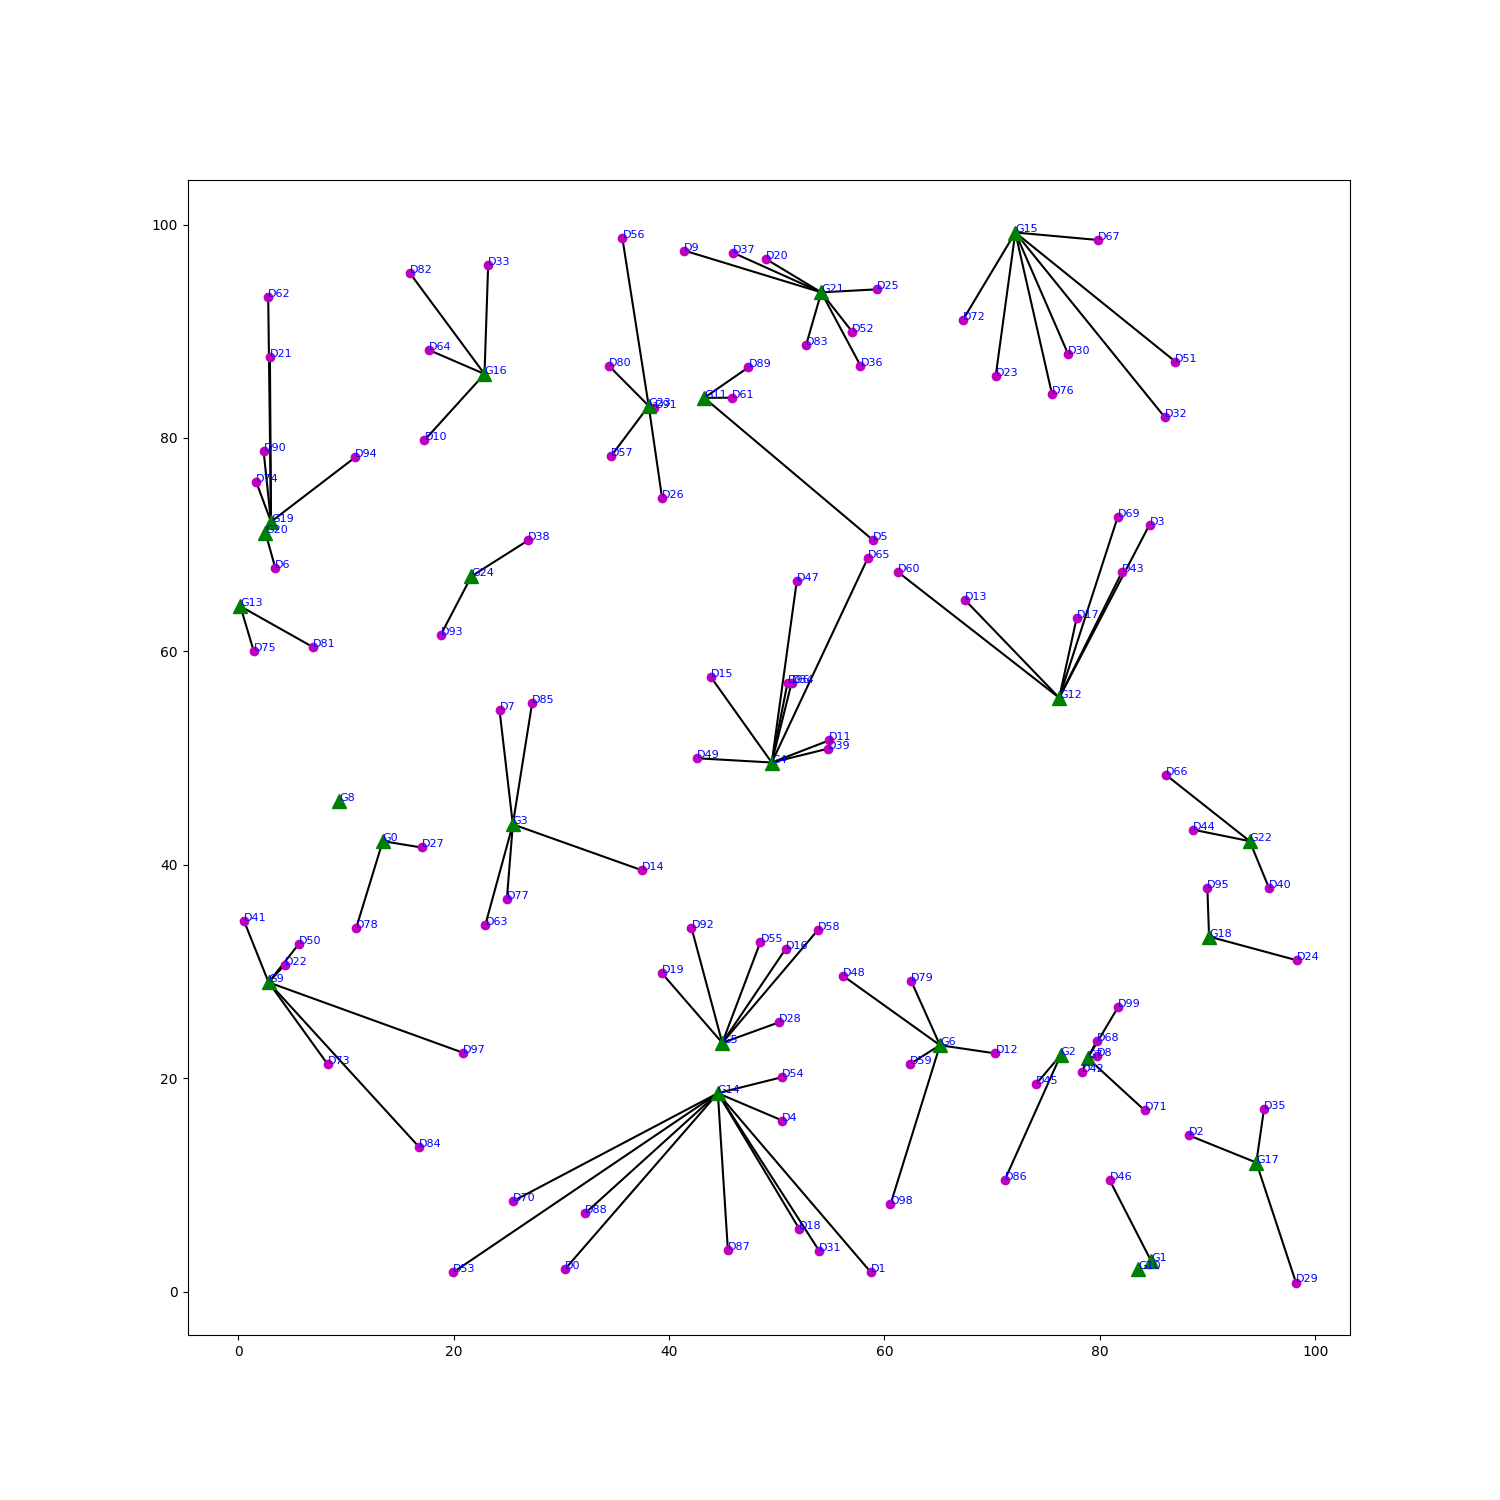
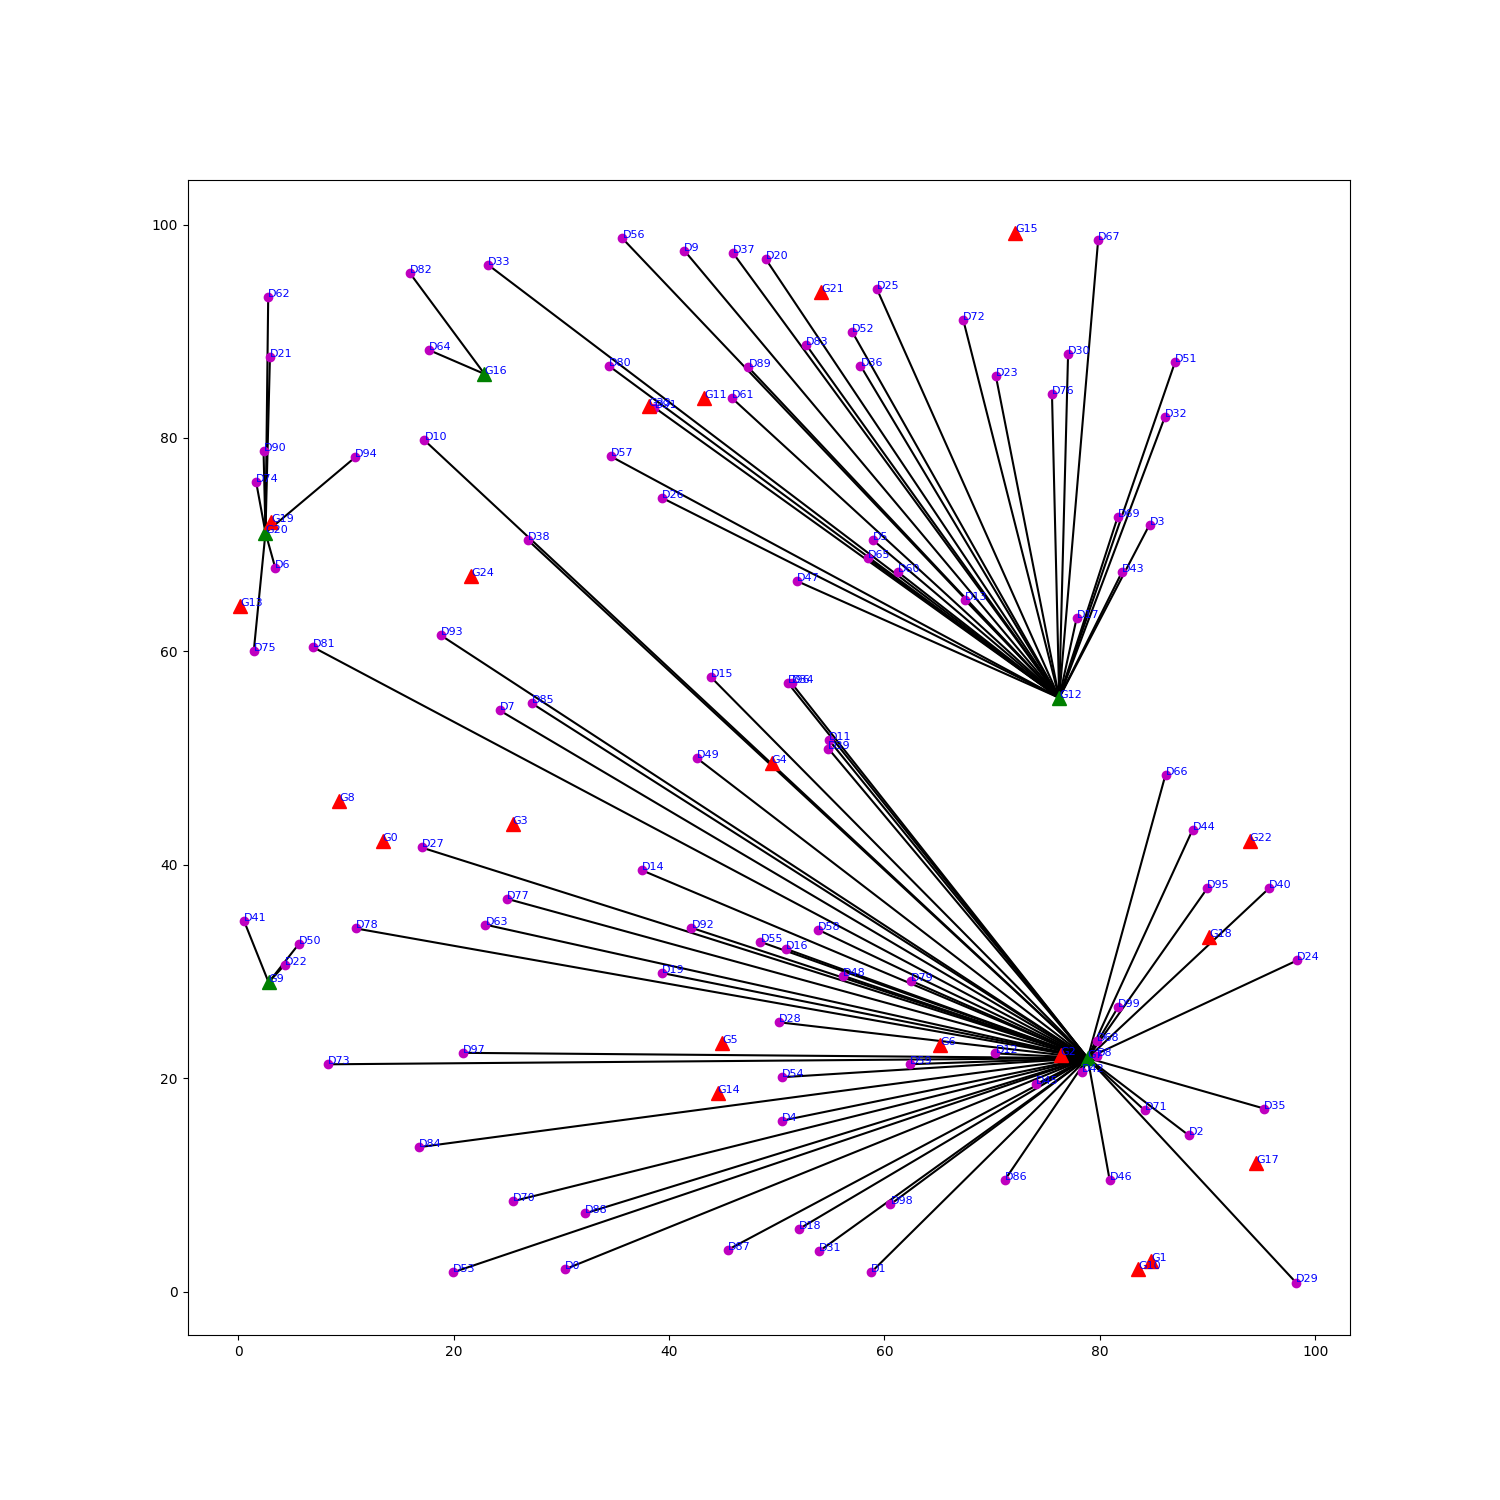
Added opening cost in evaluation function, got a far better result

diff --git a/TP2/local-search/solve.py b/TP2/local-search/solve.py
@@ -50,7 +50,7 @@ class Solve:
     def solve_localSearch(self):
         print("Solve with a local search algorithm")
 
-        opened_generators = [1 for _ in range(self.n_generator)]
+        opened_generators = [0 for _ in range(self.n_generator)]
         generators = list(range(0, self.n_generator))
         assigned_generators = [None for _ in range(self.n_device)]
         max_distance = 0 #distance maximale dans la solution
@@ -66,7 +66,9 @@ class Solve:
 
         for i in range(len(assigned_generators)) :
             j = assigned_generators[i]
-            distances[(i, j)] = self.getDistance(i,j)
+            distances[(i, j)] = self.getDistance(i,j) + self.instance.opening_cost[j]
+            if not opened_generators[j]:
+                opened_generators[j] = 1
 
         max_distance = max(distances, key=distances.get)
 
@@ -79,14 +81,18 @@ class Solve:
             isSmaller = 0
             closestDistance = distances[max_distance]
             for j in neighbors:
-                if closestDistance > self.getDistance(max_distance[0], j):
+                if closestDistance > self.getDistance(max_distance[0], j) + self.instance.opening_cost[j]:
                     tempNeighbor = j
-                    closestDistance = self.getDistance(max_distance[0],j)
+                    closestDistance = self.getDistance(max_distance[0],j) + self.instance.opening_cost[j]
                     isSmaller = 1
 
             print(tempNeighbor)
             if isSmaller:
                 assigned_generators[max_distance[0]] = tempNeighbor
+                if max_distance[1] not in assigned_generators:
+                    opened_generators[max_distance[1]] = 0
+                if not opened_generators[tempNeighbor]:
+                    opened_generators[tempNeighbor] = 1
             distances.pop(max_distance)
             #distances[(max_distance[0], tempNeighbor)] = closestDistance
             if (len(distances) == 0):

diff --git a/TP2/local-search/main.py b/TP2/local-search/main.py
@@ -28,5 +28,5 @@ if __name__ == '__main__':
 
     solveur = Solve(args.n_generator, args.n_device, args.seed)
 
-    #solveur.solve_localSearch()
-    solveur.solve_naive()
+    solveur.solve_localSearch()
+    #solveur.solve_naive()
